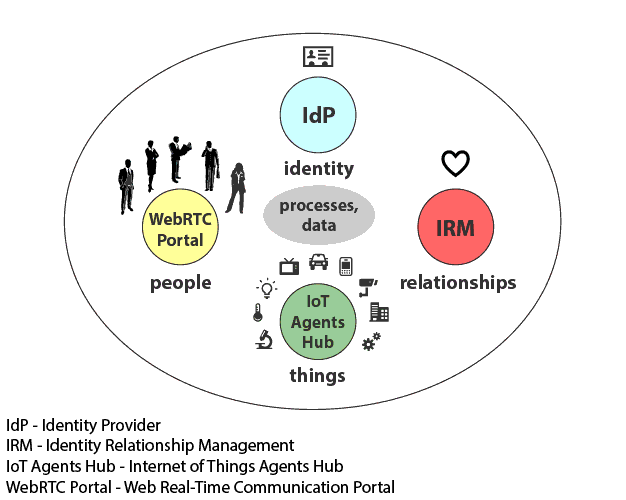
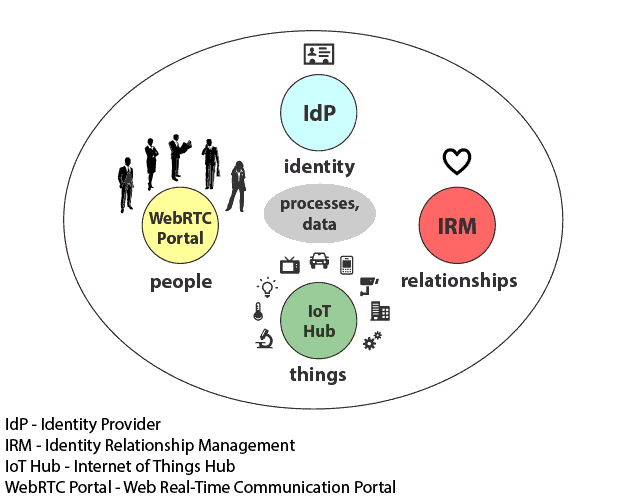
IoT Hub Agent

diff --git a/iot.html b/iot.html
@@ -79,13 +79,13 @@
 						<p>
 
 						<p>
-							WebRTC IoT Hub is a device that resides on premises and can be paired with a variety of sensors as well as third party connected devices.
+							WebRTC IoT Hub is a device running an agent that resides on premises and can be paired with a variety of sensors as well as third party connected devices/agents.
 							The collected data are processed, encrypted and stored on the Hub device and periodically backup through cloud data storage services.
-							The Hub enables users to directly connect, manage, and monitor all of their remote devices and sensors while still preserving privacy.
+							The Hub agent enables users to directly connect, manage, and monitor all of their remote devices and sensors while still preserving privacy.
 						</p>
 						
 						<p>
-							This architecture could be possibly seen as a hub and spoke model, but the WebRTC IoT Hub peer is a more than just a typical server service.
+							This architecture could be possibly seen as a hub and spoke model, but the WebRTC IoT Hub peer is a more than just a typical agent service.
 							It doesn't need a static ip address or domain identifier and it doesn't need to listen on specific open port.
 							Every single WebRTC peer is de&nbsp;facto IoT in itself; therefore this model can be seen as a smart client architecture.
 						</p>
@@ -114,7 +114,7 @@
 							A new wave of IoT-enabled systems in a manufacturing area refers as <a href="http://en.wikipedia.org/wiki/Industry_4.0">Industry 4.0</a> in Germany and <a href="https://smartmanufacturingcoalition.org/">Smart Manufacturing Leadership Coalition</a> (SMLC) in the United States.
 							The basic principle of intelligent manufacturing system is a network of people, machines and sensors continuously connected and communicating.
 							This system is extended to interconnected factories.
-							This is where the WebRTC IoT Hub comes into play as a connection and relationship management system.
+							This is where the WebRTC IoT Hub comes into play as a communication and management system.
 						</p>
 						
 						<p>

diff --git a/irm.html b/irm.html
@@ -89,9 +89,9 @@
 							The signaling server is used to coordinate this communication.
 						</p>
 						<p>
-							Publish Subscribe (pubsub) design pattern is becoming crucial for distributed signaling systems.
-							There are a few different communication protocols and implementations supporting pubsub, such as XMPP, AMQP, MQTT and Faye.
-							By properly implementing OAuth2 authorization mechanism into pubsub systems, users can authorize publishing and subscription requests.
+							Publish Subscribe (Pub/Sub) design pattern is becoming crucial for distributed signaling systems.
+							There are a few different communication protocols and implementations supporting Pub/Sub, such as XMPP, AMQP, MQTT and Faye.
+							By properly implementing OAuth2 authorization mechanism into Pub/Sub systems, users can authorize publishing and subscription requests.
 							In this way users should be able to manage their connections and relationships with customers, partners and devices.
 						</p>
 						<p>
@@ -108,7 +108,7 @@
 						</p-->
 						<!--p>
 							The <a href="ibp.html">Identity-Based Privacy</a> (IBP) is a trusted model built around <a href="http://oauth.net/2/">OAuth2</a> and <a href="http://openid.net/connect">OpenID Connect</a> standards.
-							IBP model combined with pubsub design pattern offers a new way to manage meshed peer-to-peer communication between people, devices, and things.
+							IBP model combined with Pub/Sub design pattern offers a new way to manage meshed peer-to-peer communication between people, devices, and things.
 						</p>
 						<p>
 							<img src="images/IBP-II-model.png" alt="Conceptual Architecture Model" style="max-width: 100%;max-height: 100%"/>

diff --git a/ibn.html b/ibn.html
@@ -105,7 +105,7 @@
 						</p>
 						
 						<p>
-							The Agent, can be for example, the User Agent, the File Transfer Agent or the Internet of Things Agent (Home Health Monitoring Agent, Refrigerator Agent etc.).
+							The Agent, can be for example, the User Agent, the Hub Agent, the File Transfer Agent or the Internet of Things Agent (Home Health Monitoring Agent, Refrigerator Agent etc.).
 						</p>
 						
 						<p>
